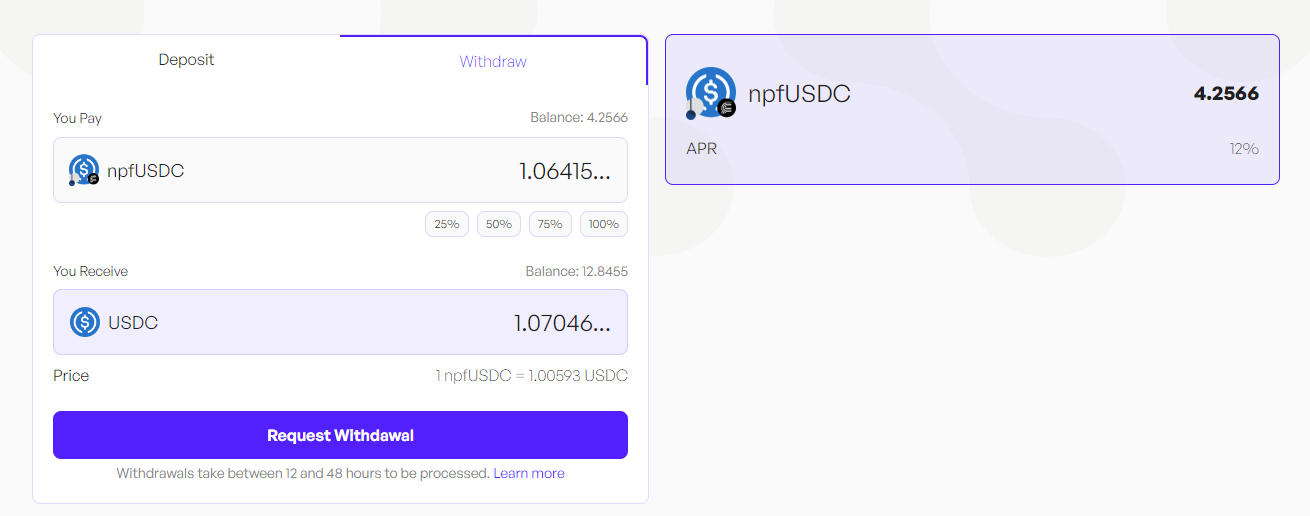
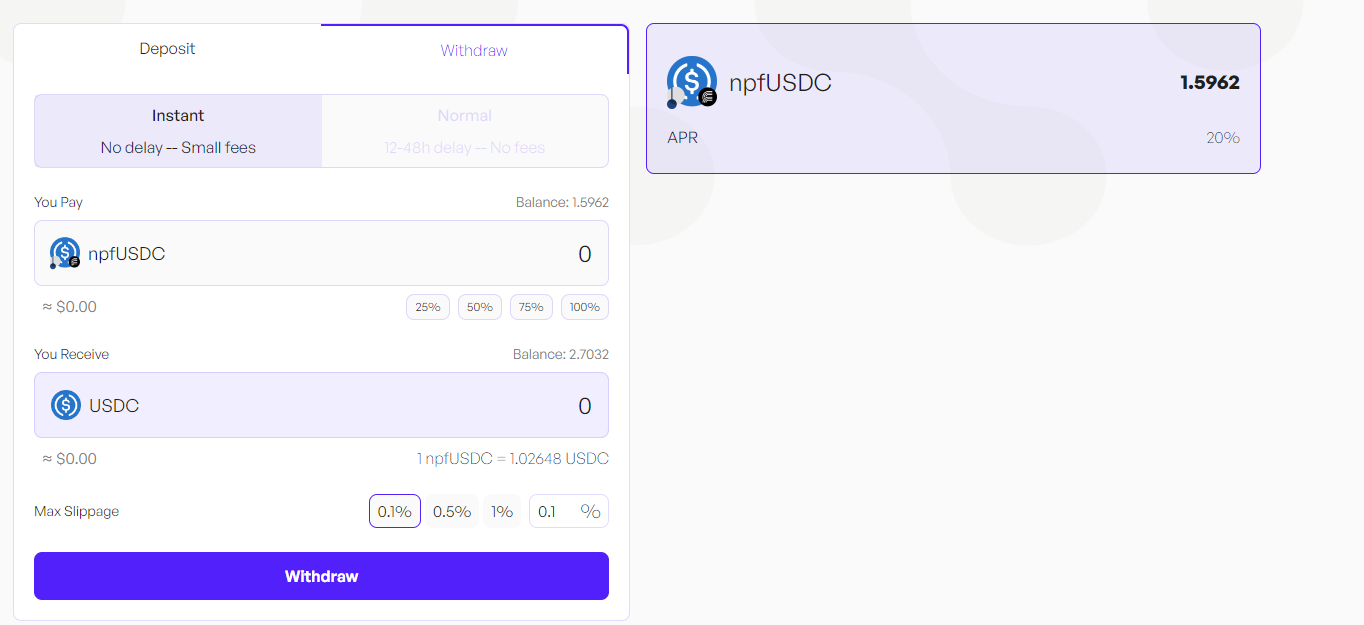
instant withdrawal

diff --git a/docs/concepts/guide/02-earn.md b/docs/concepts/guide/02-earn.md
@@ -11,7 +11,7 @@ There are several yield strategies with different underlying tokens and APR (Ann
 
 ![alt](/content/strategy_nsdai/strategy_nsdai.png)
 
-**APR is the percentage of assets you will earn on your deposit after a year**. If you want to deposit $100 of a certain token in a strategy, if APR is 10% avergae you'll earn $10 after a year. 
+**APR is the percentage of assets you will earn on your deposit after a year**. If you want to deposit $100 of a certain token in a strategy, if APR is 10% average you'll earn $10 after a year. 
 
 
 **APR is not fixed**. APR can change based on several factor such as market condition or the net asset value of the L1 strategy. 
@@ -61,12 +61,19 @@ And that's it, you should be able to see your balance of Nimbora yield token int
 
 ## How to request a withdrawal
 
-Withdrawal are not synchronous such as deposits.  Withdrawals take between 12 and 48 hours to be processed. A fast withdrawal option should arrive later on. 
+You can choose between two withdrawal options - Instant and Normal.
+
+![alt](../../../static/content/strategy_nsdai/strategy_nsdai_withdraw_instant.png)
 
 
-First, you need to decide on the amount you want to withdraw. This could be all or a portion of your assets.
+Instant withdrawals factor in the price impact and set slippage. 
 
-![alt](/content/strategy_nsdai/strategy_nsdai_withdraw.png)
+![alt](../../../static/content/strategy_nsdai/strategy_nsdai_withdraw_normal.png)
+
+
+Normal withdrawals are not synchronous such as deposits and take between 12 and 48 hours to be processed.
+
+Once you have selected the withdraw tab, you will need to decide on the amount you want to withdraw. This could be all or a portion of your assets.
 
 Once you've made up your mind, locate and click on the 'withdraw' button and follow the prompts on your wallet (Argent or Braavos) to complete the transaction.
 

diff --git a/docs/concepts/products/earn/pendle_lp_integration/03-flux_usdc.md b/docs/concepts/products/earn/pendle_lp_integration/03-flux_usdc.md
@@ -54,11 +54,20 @@ You can always check your leaderboard position and Nimbora points breakdown by c
 
 ## How to Withdraw[](https://docs.nimbora.io/docs/concepts/products/earn/pendle_lp_integration/npfUSDC#how-to-withdraw)
 
-Withdrawal are not synchronous such as deposits.  Withdrawals take between 12 and 48 hours to be processed. A fast withdrawal option should arrive later on. 
-
-First, you need to decide on the amount you want to withdraw. This could be all or a portion of your assets.
+You can choose between two withdrawal options - Instant and Normal.
 
 ![Untitled](../../../../../static/content/strategy_npfusdc/withdraw.png)
+
+
+Instant withdrawals factor in the price impact and set slippage. 
+
+![Untitled](../../../../../static/content/strategy_npfusdc/withdraw_normal.png)
+
+
+Normal withdrawals are not synchronous such as deposits and take between 12 and 48 hours to be processed.
+
+Once you have selected the withdraw tab, you will need to decide on the amount you want to withdraw. This could be all or a portion of your assets.
+
 
 
 Once you've made up your mind, locate and click on the 'withdraw' button and follow the prompts on your wallet ([Braavos](https://braavos.app/) or [ArgentX](https://argent.xyz/)) to complete the transaction.

diff --git a/docs/concepts/products/earn/pendle_lp_integration/02-puffer.md b/docs/concepts/products/earn/pendle_lp_integration/02-puffer.md
@@ -65,12 +65,17 @@ You can always check your leaderboard position and Nimbora points breakdown by c
 
 ## How to Withdraw[](https://docs.nimbora.io/docs/concepts/products/earn/pendle_lp_integration/nppETH#how-to-withdraw)
 
-Withdrawal are not synchronous such as deposits.  Withdrawals take between 12 and 48 hours to be processed. A fast withdrawal option should arrive later on. 
-
-First, you need to decide on the amount you want to withdraw. This could be all or a portion of your assets.
+You can choose between two withdrawal options - Instant and Normal.
 
 ![Untitled](../../../../../static/content/stategy_nppeth/withdraw.png)
 
+Instant withdrawals factor in the price impact and set slippage. 
+
+![Untitled](../../../../../static/content/stategy_nppeth/withdraw_normal.png)
+
+Normal withdrawals are not synchronous such as deposits and take between 12 and 48 hours to be processed.
+
+Once you have selected the withdraw tab, you will need to decide on the amount you want to withdraw. This could be all or a portion of your assets.
 
 Once you've made up your mind, locate and click on the 'withdraw' button and follow the prompts on your wallet ([Braavos](https://braavos.app/) or [ArgentX](https://argent.xyz/)) to complete the transaction.
 

diff --git a/docs/concepts/products/earn/pendle_lp_integration/01-etherfi.md b/docs/concepts/products/earn/pendle_lp_integration/01-etherfi.md
@@ -64,12 +64,18 @@ You can always check your leaderboard position and Nimbora points breakdown by c
 
 ## How to Withdraw
 
-Withdrawal are not synchronous such as deposits.  Withdrawals take between 12 and 48 hours to be processed. A fast withdrawal option should arrive later on. 
+You can choose between two withdrawal options - Instant and Normal.
+
+![alt](../../../../../static/content/strategy_npeeth/npeeth_withdraw_normal.png)
+
+Instant withdrawals factor in the price impact and set slippage. 
+
+![Untitled](../../../../../static/content/strategy_npeeth/npeeth_withdraw_instant.png)
 
 
-First, you need to decide on the amount you want to withdraw. This could be all or a portion of your assets.
+Normal withdrawals are not synchronous such as deposits and take between 12 and 48 hours to be processed.
 
-![alt](../../../../../static/content/strategy_npeeth/npeeth_withdraw.png)
+Once you have selected the withdraw tab, you will need to decide on the amount you want to withdraw. This could be all or a portion of your assets.
 
 Once you've made up your mind, locate and click on the 'withdraw' button and follow the prompts on your wallet ([Braavos](https://braavos.app/) or [ArgentX](https://argent.xyz/)) to complete the transaction.
 

diff --git a/docs/concepts/products/earn/01-strategy-sdai.md b/docs/concepts/products/earn/01-strategy-sdai.md
@@ -60,12 +60,18 @@ Your yield comes from several sources -  **nsDAI  base yield** + **$STRK** **
 
 ## How to request a withdrawal
 
-Withdrawal are not synchronous such as deposits.  Withdrawals take between 12 and 48 hours to be processed. A fast withdrawal option should arrive later on. 
+You can choose between two withdrawal options - Instant and Normal.
+
+![alt](../../../../static/content/strategy_nsdai/strategy_nsdai_withdraw_instant.png)
+
+Instant withdrawals factor in the price impact and set slippage. 
+
+![alt](../../../../static/content/strategy_nsdai/strategy_nsdai_withdraw_normal.png)
 
 
-First, you need to decide on the amount you want to withdraw. This could be all or a portion of your assets.
+Normal withdrawals are not synchronous such as deposits and take between 12 and 48 hours to be processed.
 
-![alt](/content/strategy_nsdai/strategy_nsdai_withdraw.png)
+Once you have selected the withdraw tab, you will need to decide on the amount you want to withdraw. This could be all or a portion of your assets.
 
 Once you've made up your mind, locate and click on the 'withdraw' button and follow the prompts on your wallet (Argent or Braavos) to complete the transaction.
 

diff --git a/docs/concepts/products/earn/03-strategy-angle.md b/docs/concepts/products/earn/03-strategy-angle.md
@@ -54,11 +54,16 @@ Your yield comes from several sources -  **nstUSD  base yield** + **$STRK** *
 
 
 ## How to request a withdrawal
+You can choose between two withdrawal options - Instant and Normal.
 
-Withdrawal are not synchronous such as deposits.  Withdrawals take between 12 and 48 hours to be processed. A fast withdrawal option should arrive later on. 
+Instant withdrawals factor in the price impact and set slippage. 
+
+![alt](../../../../static/content/strategy_nstusd/withdraw_instant.png)
 
 
-First, you need to decide on the amount you want to withdraw. This could be all or a portion of your assets.
+Normal withdrawals are not synchronous such as deposits and take between 12 and 48 hours to be processed.
+
+Once you have selected the withdraw tab, you will need to decide on the amount you want to withdraw. This could be all or a portion of your assets.
 
 ![alt](../../../../static/content/strategy_nstusd/withdraw.png)
 
